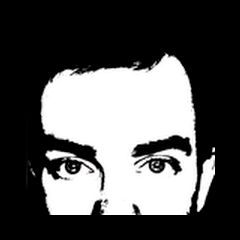
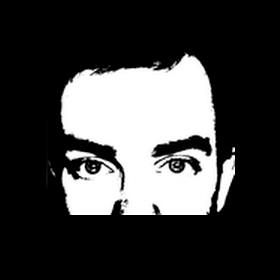
imv

Changed region(s): [[0.1458, 0.175, 0.9042, 0.9042], [0.1167, 0.6708, 0.1458, 0.7292]]

diff --git a/index.html b/index.html
@@ -44,7 +44,7 @@
 
 						<article class="item thumb" data-width="200">
 							<!--<h2></h2>-->
-							<a href="#" data-poptrox="ignore"><img src="images/io192.png" alt=""></a>
+							<a href="#" data-poptrox="ignore"><img src="images/io240.png" alt=""></a>
 						</article>
                     
                         <article class="item thumb" data-width="200">
